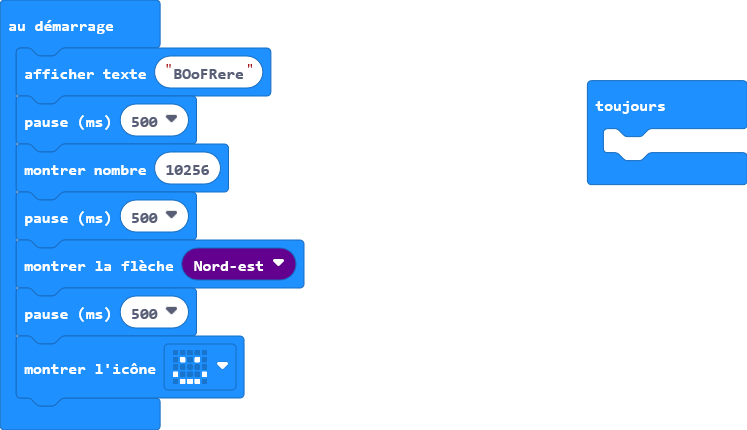
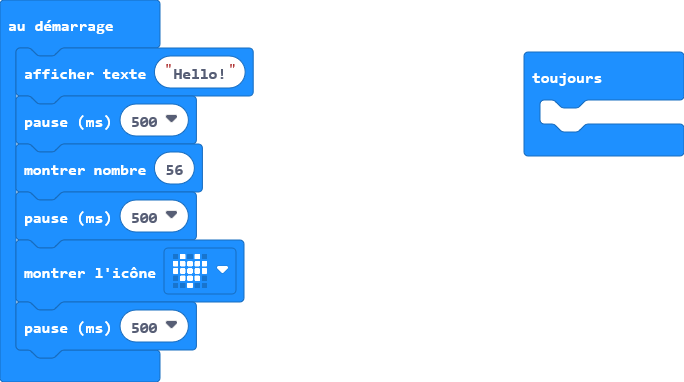
Mise à jour pxt.json, main.blocks, main.ts

diff --git a/main.ts b/main.ts
@@ -1,10 +1,9 @@
-basic.showString("BOoFRere")
+basic.showString("Hello!")
 basic.pause(500)
-basic.showNumber(10256)
+basic.showNumber(56)
 basic.pause(500)
-basic.showArrow(ArrowNames.NorthEast)
+basic.showIcon(IconNames.Heart)
 basic.pause(500)
-basic.showIcon(IconNames.Happy)
 basic.forever(function () {
 	
 })
